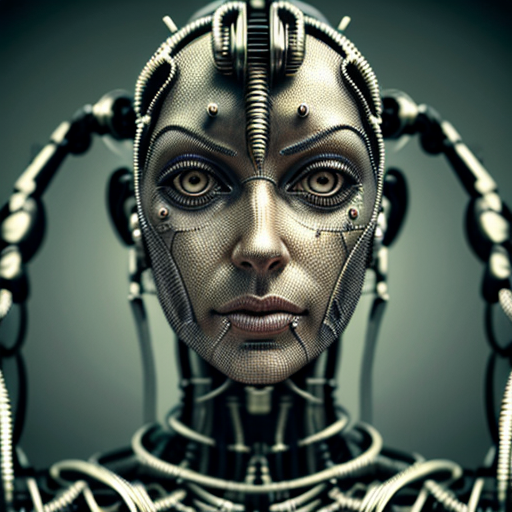
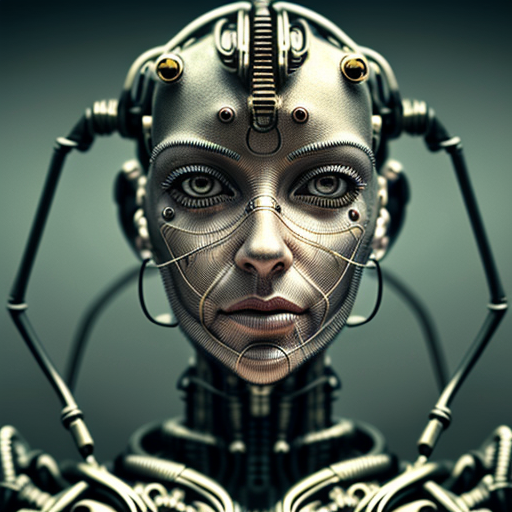
fix(schedulers): substitute a schedule that holds across the step range
- SCHEDULE_SENSITIVE_FALLBACK becomes `simple`, on measurement rather than on the folklore that karras is the safe low-step choice: sweeping dpmpp_3m_sde across all nine schedules at 8 and 25 steps, `simple` and `sgm_uniform` are the only two that converge at both
- karras converges for it at 25 steps and returns dithered colour noise at 8, so the previous substitute repaired the schedule a low-step request landed on while leaving the image broken
- asserts the substitute is drawn from the pair that holds at both step counts, so a future edit cannot quietly reintroduce a step-dependent one
- re-mints the golden, which the substitution feeds

diff --git a/hordelib/pipeline/constants.py b/hordelib/pipeline/constants.py
@@ -280,8 +280,15 @@ Only `normal` is listed, because only `normal` was confirmed to diverge while `k
 suspect but were never confirmed either way, so they are deliberately absent rather than guessed at.
 """
 
-SCHEDULE_SENSITIVE_FALLBACK = "karras"
-"""The schedule substituted for a sensitive sampler that would otherwise diverge."""
+SCHEDULE_SENSITIVE_FALLBACK = "simple"
+"""The schedule substituted for a sensitive sampler that would otherwise diverge.
+
+`simple` rather than `karras`, on measurement: sweeping `dpmpp_3m_sde` across all nine schedules at 8
+and 25 steps, `simple` and `sgm_uniform` were the only two that converge at *both* step counts. `karras`
+converges at 25 steps but returns dithered colour noise at 8, so substituting it would have fixed the
+schedule a low-step request landed on while leaving the image broken. A substitute has to hold across
+the step range, not just at the step count it was checked at.
+"""
 
 
 def resolve_schedule(sampler_name: str | None, scheduler: str | None) -> tuple[str | None, bool]:

diff --git a/tests/pipeline/test_schedule_constraints.py b/tests/pipeline/test_schedule_constraints.py
@@ -48,6 +48,12 @@ class TestResolveSchedule:
             assert resolved == schedule, schedule
             assert substituted is False, schedule
 
+    def test_the_substitute_holds_across_the_step_range(self):
+        # Measured: sweeping dpmpp_3m_sde over all nine schedules at 8 and 25 steps, only `simple` and
+        # `sgm_uniform` converge at both. `karras` converges at 25 and fails at 8, so it cannot be the
+        # substitute: a low-step request would be moved onto a schedule that is still broken for it.
+        assert SCHEDULE_SENSITIVE_FALLBACK in {"simple", "sgm_uniform"}
+
     def test_insensitive_sampler_keeps_the_divergent_schedule(self):
         # Only the sensitive samplers are constrained; nothing else changes behaviour.
         for sampler in ("k_euler", "k_dpmpp_2m", "dpmpp_2m_sde"):
